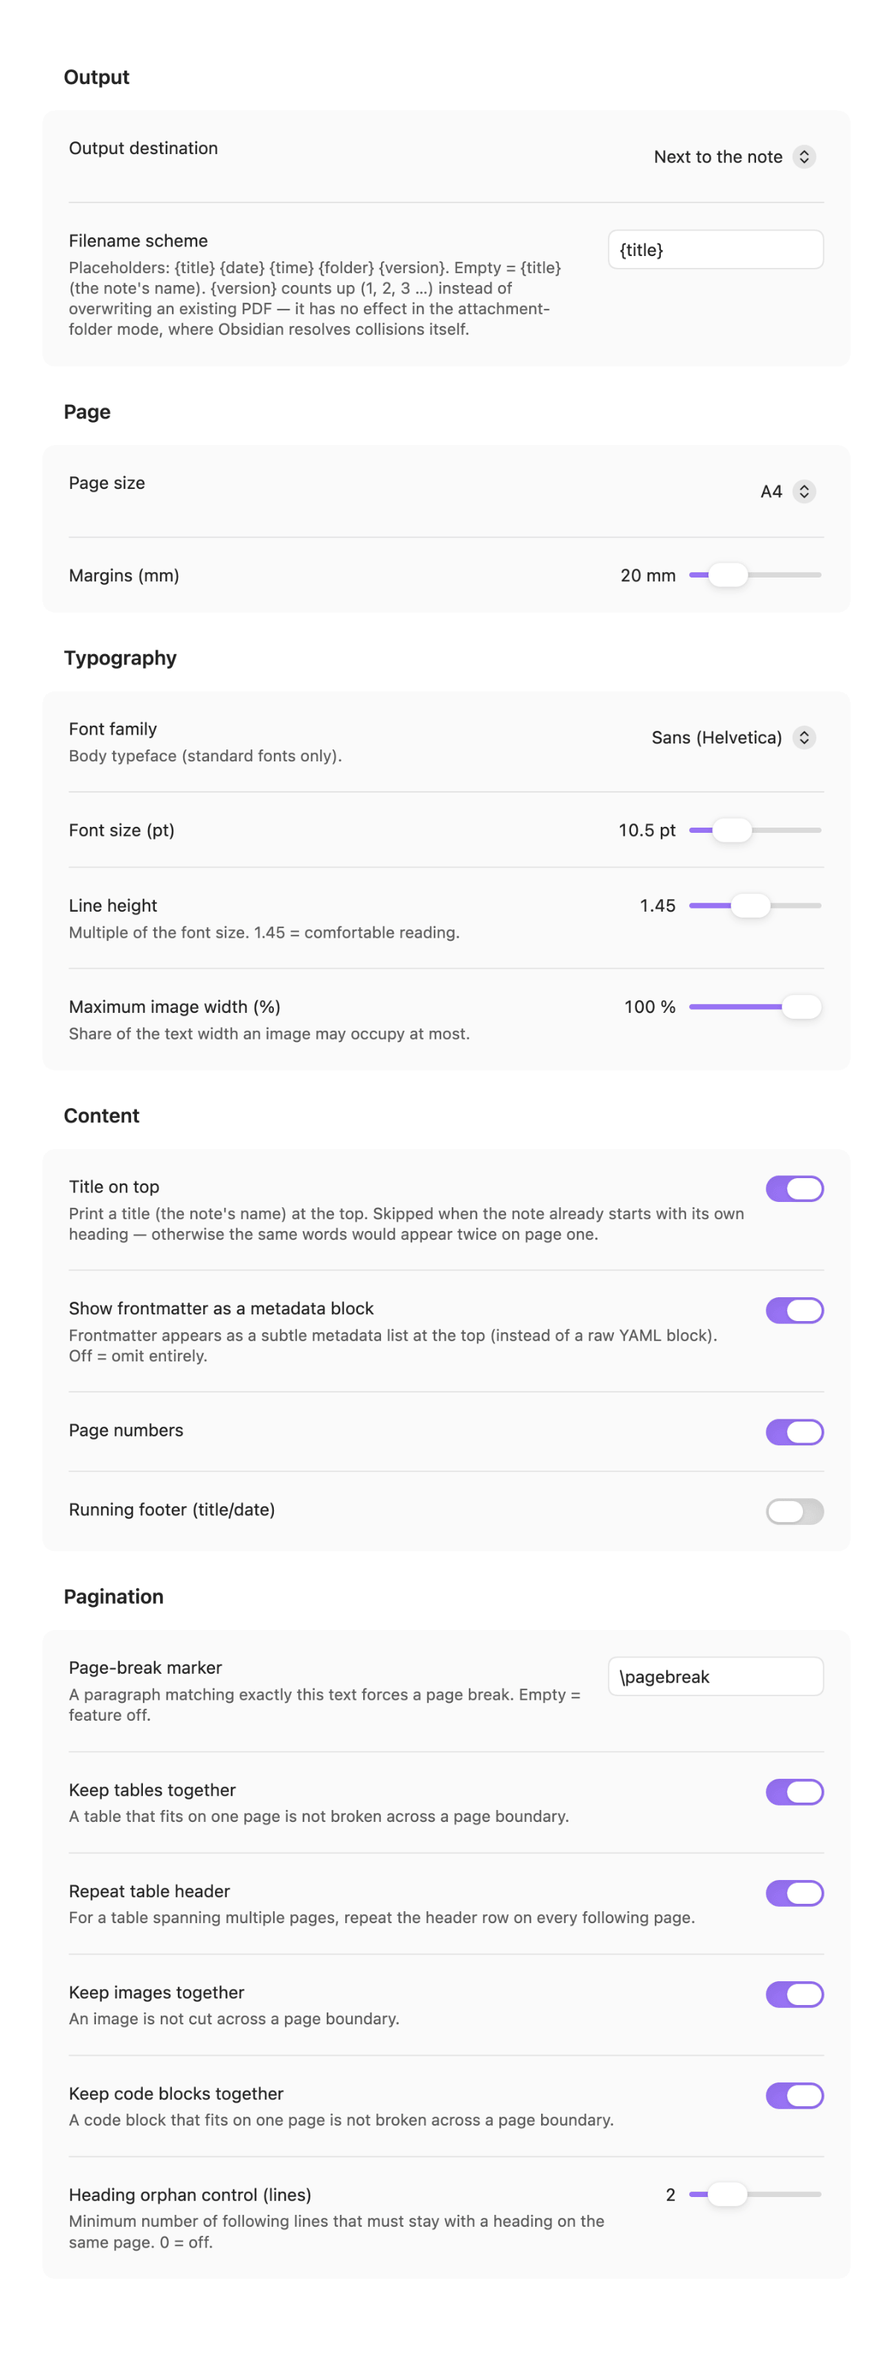
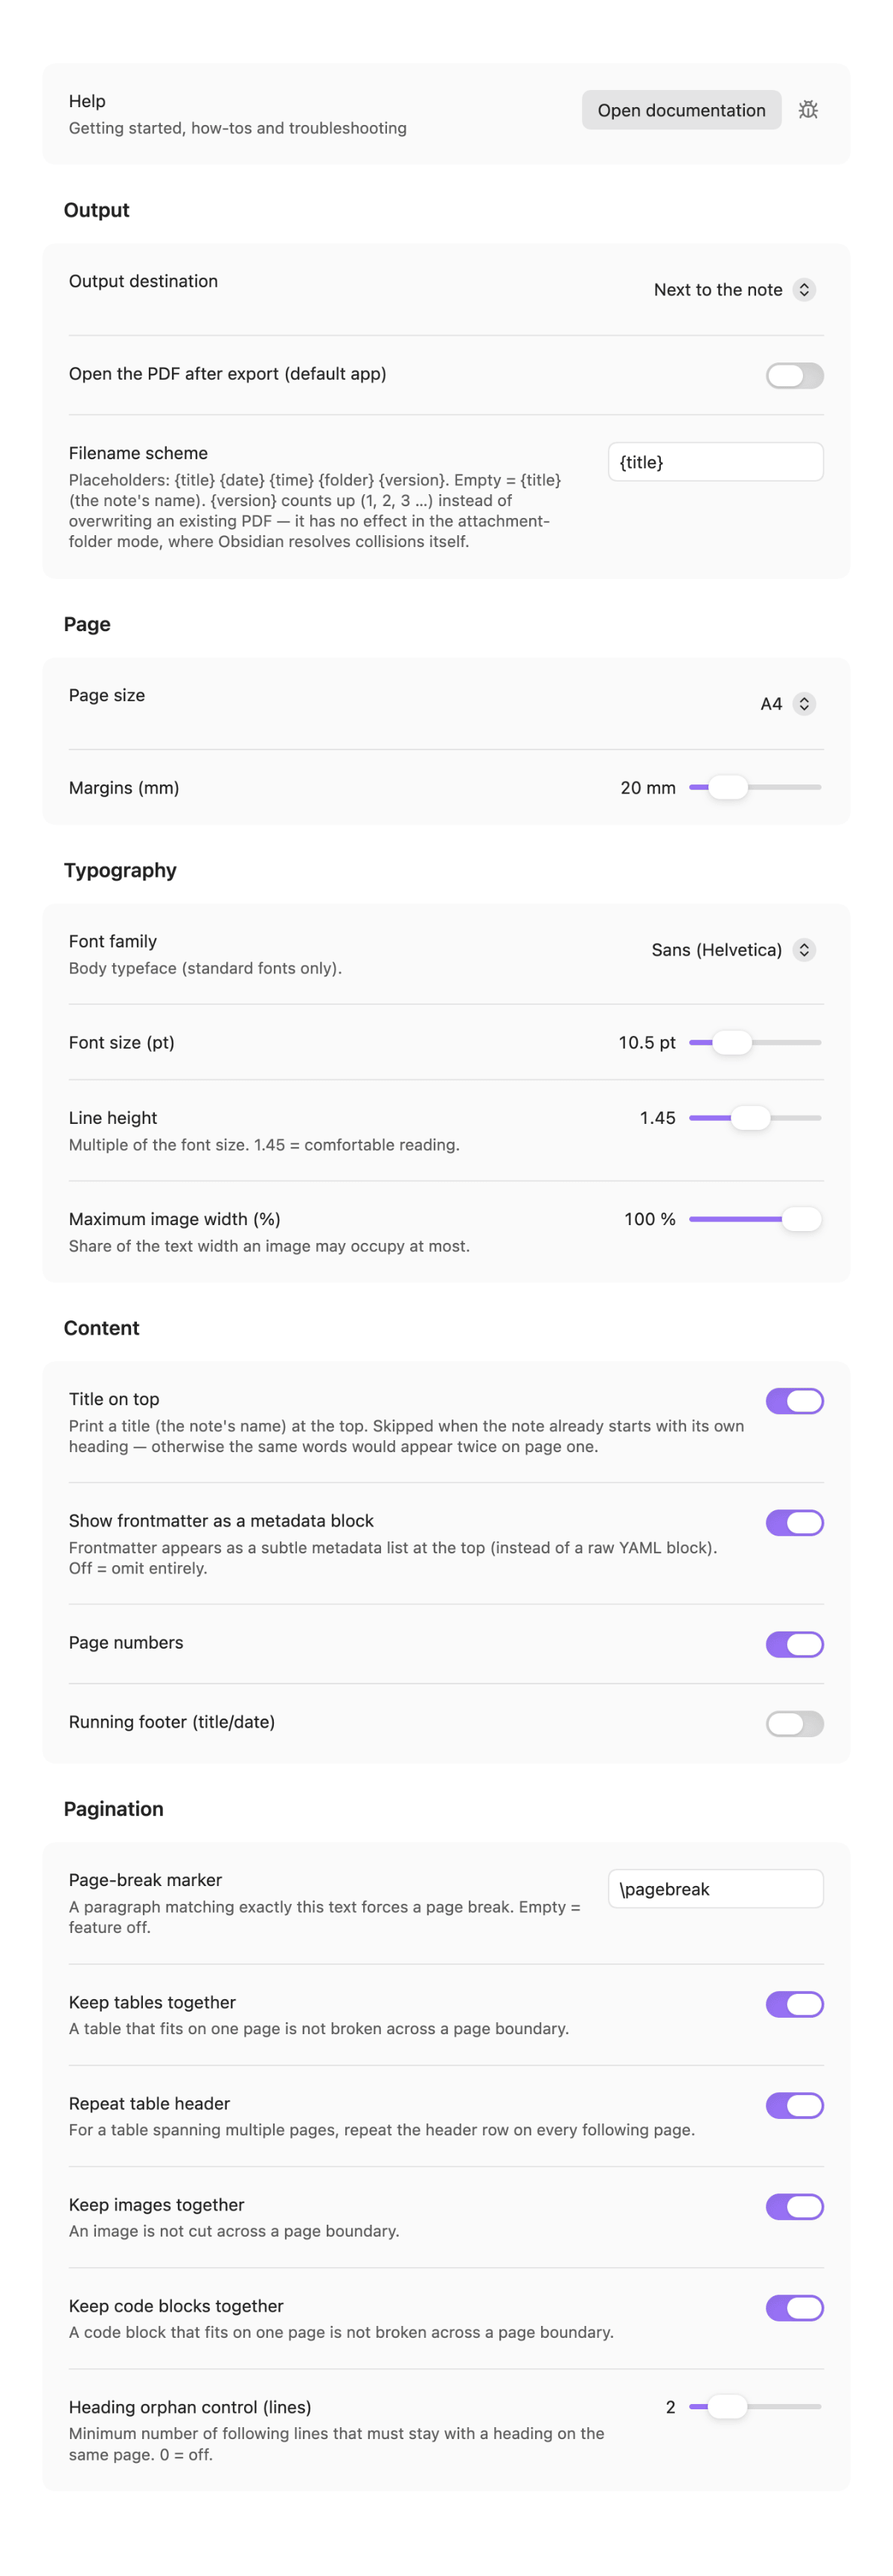
docs(images): Settings-Bilder mit der neuen Zeile; shots.ts wählt die Gruppe Output statt der Hilfe-Gruppe

diff --git a/scripts/shots.ts b/scripts/shots.ts
@@ -449,7 +449,16 @@ const SHOTS: Shot[] = [
       // Die erste Gruppe IST „Output" — `SECTIONS` in src/obsidian/settings.ts führt sie
       // zuerst, und das ist kein Zufall, sondern die Lehre aus 0.3.0: das Ausgabeziel gab
       // es seit 0.1.0 und war in einer flachen Liste unauffindbar.
-      const box = await boxOf(cdp, '.setting-group', PADDING);
+      // Vor „Output" steht seit der Hilfe-Zeile (UI-STANDARD §8) eine eigene Gruppe: die erste Gruppe
+      // ist die Hilfe, nicht Output (das Bild zeigte nur die Hilfe-Zeile, gemessen 2026-10-14).
+      // Gewählt wird deshalb die Gruppe, deren Überschrift „Output" heißt.
+      await cdp.evaluate(`
+        const gruppen = [...document.querySelectorAll(".setting-group")];
+        const ziel = gruppen.find((g) => /^\\s*Output\\s*/.test(g.textContent || ""));
+        if (ziel) ziel.setAttribute("data-shot", "output");
+        return Boolean(ziel);
+      `);
+      const box = await boxOf(cdp, '.setting-group[data-shot="output"]', PADDING);
       return box ?? boxOf(cdp, '.vertical-tab-content', PADDING);
     },
   },
